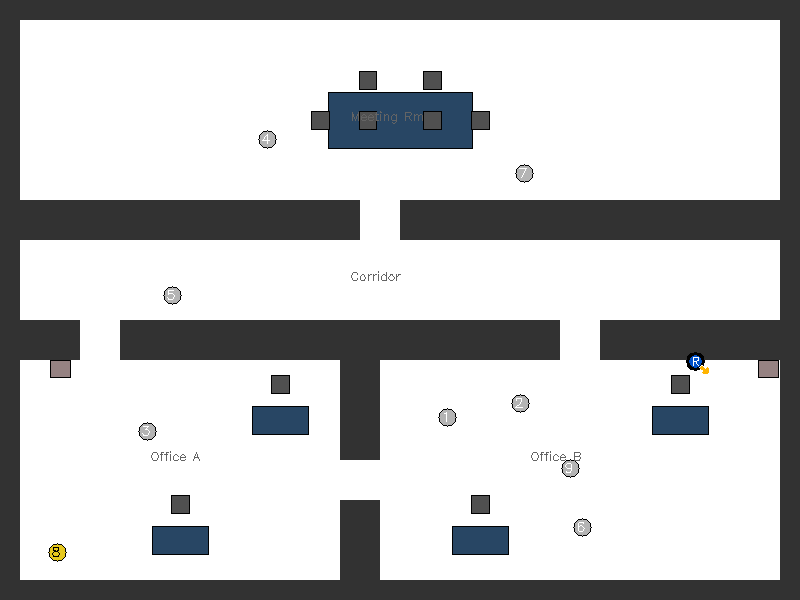
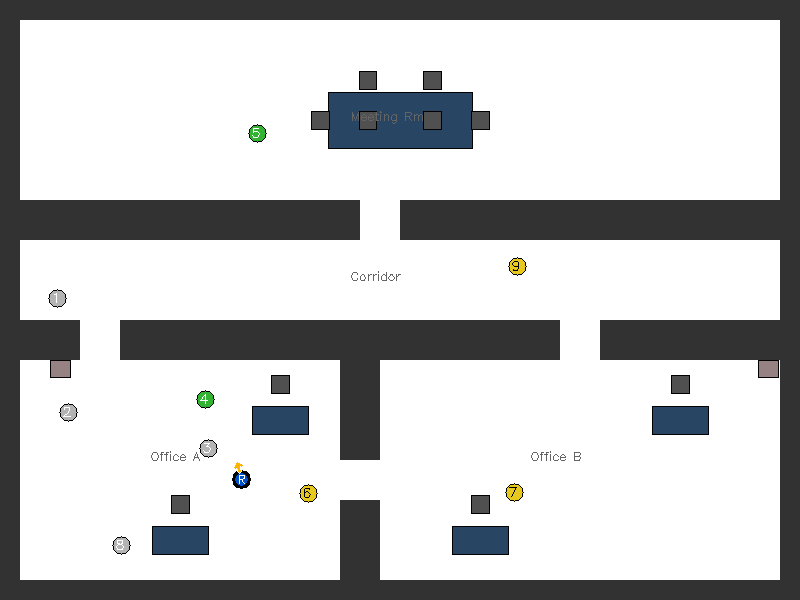
fixed bugs in detection localization

diff --git a/src/metrics/object_detection_tracker.py b/src/metrics/object_detection_tracker.py
@@ -6,7 +6,8 @@ each incoming detection as TP, DP, FP, or IGN against the ground-truth label_map
 Detection2D message contract (required from agents):
   class_id  (results[0].hypothesis.class_id) : object type, e.g. "fire_extinguisher"
   id                                          : persistent per-instance tracking ID
-  results[0].pose.pose.position.{x,y}        : estimated world position (metres)
+  results[0].pose.pose.position.{x,y}        : estimated position in map/slam frame (metres);
+                                                scorer applies spawn-offset transform → world frame
 
 Oracle compatibility (dev/cheat tool):
   Numeric class_id that resolves in label_map is accepted as oracle format.
@@ -254,6 +255,9 @@ class ObjectDetectionTracker:
     def _on_detections(self, msg: Any) -> None:
         elapsed = time.monotonic() - self._start_time
         new_tp = False
+        # Per-message FP dedup: prevents a persistently-bad track from counting
+        # multiple FPs within a single DetectionArray message.
+        _fp_seen_this_msg: set[str] = set()
 
         for det in msg.detections:
             if not det.results:
@@ -276,10 +280,16 @@ class ObjectDetectionTracker:
                 tracking_id = raw_class_id   # numeric label is its own stable UID
                 is_oracle = True
             else:
-                # Real-agent format: class_id is type name; pose is world position
+                # Real-agent format: class_id is type name; pose is in map/slam frame
+                # (odom origin = robot spawn pose).  Convert to world frame using the
+                # same spawn-offset transform applied to odom-based robot pose.
                 class_type = raw_class_id
-                wx = float(hyp.pose.pose.position.x)
-                wy = float(hyp.pose.pose.position.y)
+                mx = float(hyp.pose.pose.position.x)
+                my = float(hyp.pose.pose.position.y)
+                sy = math.sin(self._spawn_yaw)
+                cy = math.cos(self._spawn_yaw)
+                wx = self._spawn_x + cy * mx - sy * my
+                wy = self._spawn_y + sy * mx + cy * my
                 tracking_id = det.id or ""
                 is_oracle = False
 
@@ -288,13 +298,12 @@ class ObjectDetectionTracker:
                 continue
 
             # 2. Dedup: real-agent only — oracle uses _confirmed_objects below.
-            # Oracle tracking_id == numeric label; blacklisting it on a LOS-rejected
-            # frame would permanently prevent re-detection.
+            # Only blacklist a tracking_id once it's confirmed as TP or DP.
+            # FP/miss outcomes must NOT blacklist — the same track may later have a
+            # better position or clear LOS and should be re-evaluated.
             if not is_oracle:
                 if tracking_id and tracking_id in self._seen_tracking_ids:
                     continue
-                if tracking_id:
-                    self._seen_tracking_ids.add(tracking_id)
 
             # 3. Find nearest physical object of this type
             label_key, dist = self._find_nearest_object(class_type, wx, wy)
@@ -302,12 +311,18 @@ class ObjectDetectionTracker:
             if label_key is not None and dist <= self._match_threshold:
                 actual = self._label_map[label_key]
                 if not self._has_line_of_sight(float(actual["x"]), float(actual["y"])):
-                    self._fp_count += 1
+                    # LOS failure — count FP but do NOT blacklist tracking_id;
+                    # robot may gain LOS on a future message.
+                    if not is_oracle and tracking_id not in _fp_seen_this_msg:
+                        self._fp_count += 1
+                        _fp_seen_this_msg.add(tracking_id)
                     continue
 
                 if label_key in self._confirmed_objects:
                     # Physical object already confirmed → duplicate positive
                     self._dp_count += 1
+                    if not is_oracle and tracking_id:
+                        self._seen_tracking_ids.add(tracking_id)
                 else:
                     # True positive
                     location_error = 0.0 if is_oracle else dist
@@ -318,6 +333,8 @@ class ObjectDetectionTracker:
                     }
                     if not is_oracle:
                         self._location_errors.append(dist)
+                        if tracking_id:
+                            self._seen_tracking_ids.add(tracking_id)
                     self._tp_events.append({
                         "label_key": label_key,
                         "class_type": class_type,
@@ -327,8 +344,12 @@ class ObjectDetectionTracker:
                     })
                     new_tp = True
             else:
-                # Nothing within threshold → false positive
-                self._fp_count += 1
+                # Nothing within threshold → false positive (per-message dedup)
+                if not is_oracle and tracking_id not in _fp_seen_this_msg:
+                    self._fp_count += 1
+                    _fp_seen_this_msg.add(tracking_id)
+                elif is_oracle:
+                    self._fp_count += 1
 
         if new_tp:
             self._write_live_state()

diff --git a/scripts/robot_control.py b/scripts/robot_control.py
@@ -152,10 +152,10 @@ def cmd_snapshot(args):
     rclpy.init()
     node = rclpy.create_node("rc_snapshot")
     try:
-        msg = _wait_for_message(node, Image, f"/{args.robot}/image_raw", args.timeout)
+        msg = _wait_for_message(node, Image, f"/{args.robot}/rgbd/image", args.timeout)
         if msg is None:
             print(
-                f"ERROR: no image on /{args.robot}/image_raw within {args.timeout}s.\n"
+                f"ERROR: no image on /{args.robot}/rgbd/image within {args.timeout}s.\n"
                 + _sim_not_running_hint()
             )
             return 1

diff --git a/docs/AUTONOMOUS_AGENT_GUIDE.md b/docs/AUTONOMOUS_AGENT_GUIDE.md
@@ -76,9 +76,9 @@ Publish your detections on `/derpbot_0/detections` as `vision_msgs/Detection2DAr
 |---|---|
 | `results[0].hypothesis.class_id` | Object type string, e.g. `"fire_extinguisher"` |
 | `id` | Persistent per-instance tracking ID (e.g. `"track_23"`). Use a stable ID for the same physical object across frames. |
-| `results[0].pose.pose.position.{x,y}` | Estimated world position in metres (from robot pose + depth estimate) |
+| `results[0].pose.pose.position.{x,y}` | Estimated position in **map frame** (odom origin = robot spawn pose), in metres. The scorer converts to world frame automatically using the spawn offset. |
 
-**Validation logic:** a detection is a **true positive** if the class matches a known target type, the claimed position is within 1.5 m of a real object of that type, and there is line of sight. Detections of unknown classes are silently ignored (no penalty). False positives, duplicate positives and localization error reduce your score.
+**Validation logic:** a detection is a **true positive** if the class matches a known target type, the claimed map-frame position converts to within 1.5 m of a real object of that type in world frame, and there is line of sight. Detections of unknown classes are silently ignored (no penalty). False positives, duplicate positives and localization error reduce your score.
 
 **Safety threshold:** a near-miss is any obstacle within **≤ 0.3 m** of the robot (as measured by LiDAR). Collisions and near-misses both reduce the Safety score. The robot body is 30 × 20 cm (LiDAR-to-surface offset ≈ 0.15 m front/back).
 
@@ -107,7 +107,16 @@ Publish your detections on `/derpbot_0/detections` as `vision_msgs/Detection2DAr
 ./scripts/run_scenario.sh config/scenarios/office_explore_detect/medium.yaml --headless --enable-pointcloud
 ```
 
-Available difficulty tiers (ascending): `easy` · `medium` · `hard` · `brutal` · `perception_stress`
+Available difficulty tiers (ascending):
+
+| Tier | Timeout |
+|---|---|
+| `easy` | 900 s |
+| `medium` | 600 s |
+| `hard` | 300 s |
+| `brutal` | 180 s |
+| `perception_stress` | 600 s |
+
 All YAML files are under `config/scenarios/office_explore_detect/`.
 
 Startup takes ~5 s. The scenario ends on `SUCCESS` or `TIME_LIMIT`; scorecard prints to stdout and JSON is written to `results/`.
@@ -153,7 +162,7 @@ A mission brief is also printed to stdout at scenario start and again just befor
 
 1. **Receive the mission** — fetch the mission description (see section 4) before or at run start.
 2. **Explore** the environment — no map is provided; build it from LiDAR and odometry.
-3. **Detect objects** — publish `vision_msgs/Detection2DArray` on `/derpbot_0/detections` with class, tracking ID, and world position (see §3).
+3. **Detect objects** — publish `vision_msgs/Detection2DArray` on `/derpbot_0/detections` with class, tracking ID, and map-frame position (see §3).
 4. **Navigate safely** — collisions and near-misses reduce your Safety score.
 5. **Stop or let the runner end the episode** — the runner polls detections and terminates automatically.
 

diff --git a/docs/AGENT_HANDOFF.md b/docs/AGENT_HANDOFF.md
@@ -46,6 +46,7 @@ Navigation → invoke the `/arst-nav` skill. It has all documentation.
 - **Parallel sessions**: Isolate with `ROS_DOMAIN_ID=N ./scripts/run_scenario.sh ...`. gz transport is isolated per process; only ROS DDS needs the domain ID.
 - **Door states**: `door_states: open | closed | random`. Closed doors are injected as static panels at SDF generation time; BFS connectivity check ensures the scenario stays solvable.
 - **IMU**: Needs `gz-sim-imu-system` plugin in `world.sdf` (separate from `gz-sim-sensors-system`); bridge publishes **BEST_EFFORT** QoS — subscribe with `ReliabilityPolicy.BEST_EFFORT` or receive nothing.
+- **Detection pose frame**: tracker expects agent detections in **map/odom frame** (odom origin = robot spawn). It applies the spawn offset (x, y, yaw) to convert to world frame — same transform used for odom→world in `ExplorationCoverage`. Oracle path is unaffected (uses GT world positions from `label_map` directly). Future: if a SLAM stack with loop closures is added, the `map→odom` correction could shift the map origin away from spawn. Mitigation: have agents publish in the `odom` frame (pre-loop-closure), or have the tracker subscribe to the `map→odom` TF and undo the SLAM correction before applying the spawn offset.
 - **Patrol bot DiffDrive topic**: Do NOT set `<topic>cmd_vel</topic>` in the DiffDrive plugin SDF — it resolves to the global `/cmd_vel`. Omit it and DiffDrive defaults to `/model/<name>/cmd_vel`.
 - **Patrol bot spawn = first waypoint**: Controller drives for `distance/speed` seconds from waypoint[0]→[1]. Spawn must match waypoint[0] exactly or the bot overshoots and hits a wall.
 - **Patrol bot drive+teleport**: Pure diff-drive dead-reckoning for multi-waypoint patrol quickly goes off-route — heading drift per turn pushes the bot into walls and rooms. Solved by driving straight for a fixed time then teleporting back to waypoint[0] via `/world/<world>/set_pose`. No turns, no drift.

diff --git a/readme.md b/readme.md
@@ -119,7 +119,6 @@ To fix:
 - label ? in metrics report
 - try disabling the bounding box cam to see influence on real time factor. If big > only trigger on teleop session or detection publish
 - add sound?
-
-To check:
-- ~~way to enable/disable oracle detector for autonomous robot development w or w/o vision model.~~ ✓ done (`--enable-oracle`)
-- ~~depth~~ ✓ done (RGBD camera — `rgbd/image`, `rgbd/depth_image`, `rgbd/camera_info`)
+- add dummy objects?
+- add some variation in signs e.g. also on wall etc.
+- add plus to back of first aid kit as well
